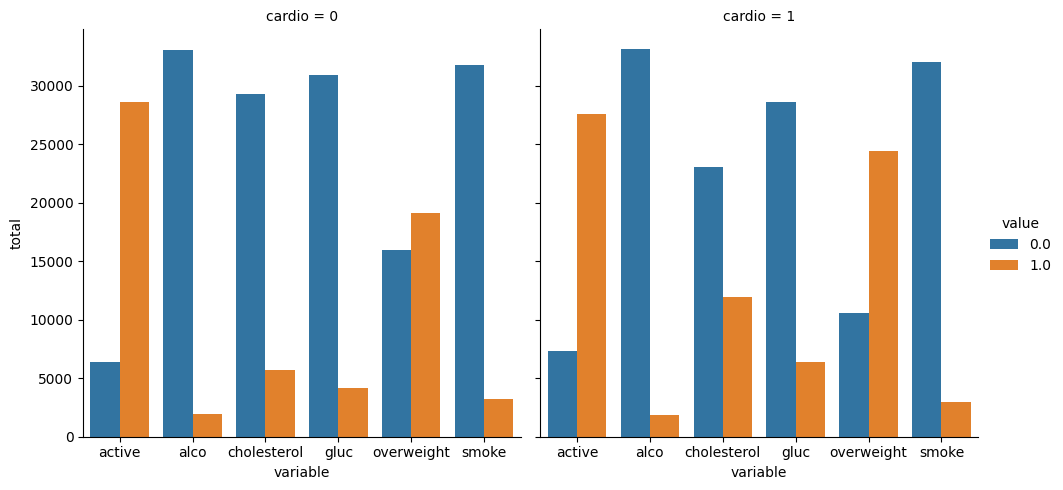
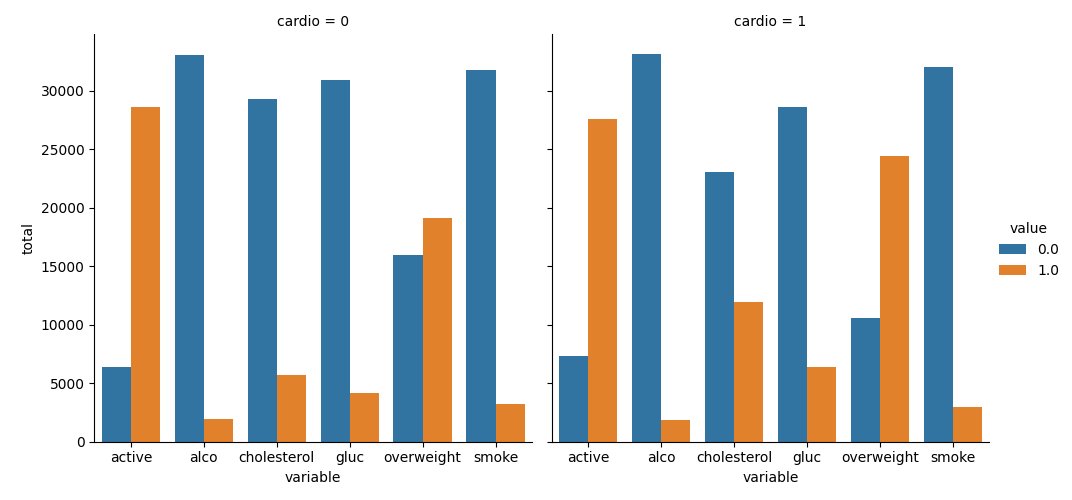
end medical visib

diff --git a/Análisis de Datos con Python/Visualizador de datos médicos/medical_data_visualizer.py b/Análisis de Datos con Python/Visualizador de datos médicos/medical_data_visualizer.py
@@ -27,13 +27,15 @@ def draw_cat_plot():
     df_cat = pd.DataFrame(data=df_cat.value_counts(), columns=["total"]).sort_index().reset_index()
     
     # Draw the catplot with 'sns.catplot()'
-    # Get the figure for the output
-    fig = sns.catplot(x="variable", 
+    g = sns.catplot(x="variable", 
                 y="total",
                 hue="value",
                 kind="bar",
                 col="cardio",
                 data=df_cat)
+
+    # Get the figure for the output
+    fig = g.figure
 
     # Do not modify the next two lines
     fig.savefig('catplot.png')
@@ -43,22 +45,37 @@ def draw_cat_plot():
 # Draw Heat Map
 def draw_heat_map():
     # Clean the data
-    df_heat = None
+    df_heat = df[
+        (df["ap_lo"] <= df["ap_hi"]) &
+        (df['height'] >= df['height'].quantile(0.025)) &
+        (df['height'] <= df['height'].quantile(0.975)) &
+        (df['weight'] >= df['weight'].quantile(0.025)) &
+        (df['weight'] <= df['weight'].quantile(0.975))]    
 
     # Calculate the correlation matrix
-    corr = None
+    corr = df_heat.corr()
 
     # Generate a mask for the upper triangle
-    mask = None
-
-
+    mask = np.triu(np.ones_like(corr, dtype=bool))
 
     # Set up the matplotlib figure
-    fig, ax = None
+    fig = plt.subplots(figsize=(11, 9))
 
     # Draw the heatmap with 'sns.heatmap()'
+    g = sns.heatmap(
+        corr,
+        mask=mask,
+        vmax=.3,
+        center=0,
+        square=True,
+        annot=True, # values on each cell
+        fmt=".1f", 
+        linewidths=.5,
+        cbar_kws={
+            "shrink": 0.5,
+            'ticks': [-0.08, 0.00, 0.08, 0.16, 0.24]}) # legend
 
-
+    fig = g.figure
 
     # Do not modify the next two lines
     fig.savefig('heatmap.png')
